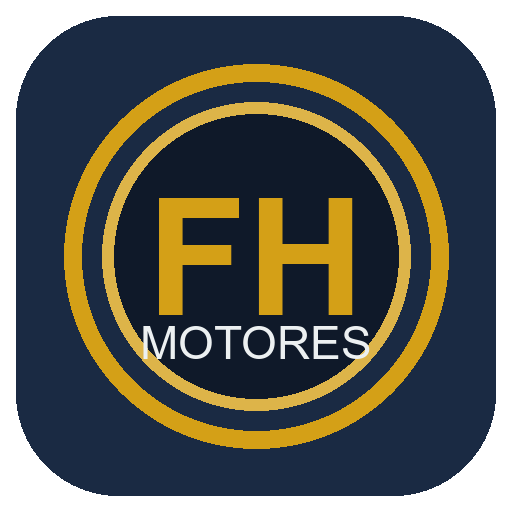
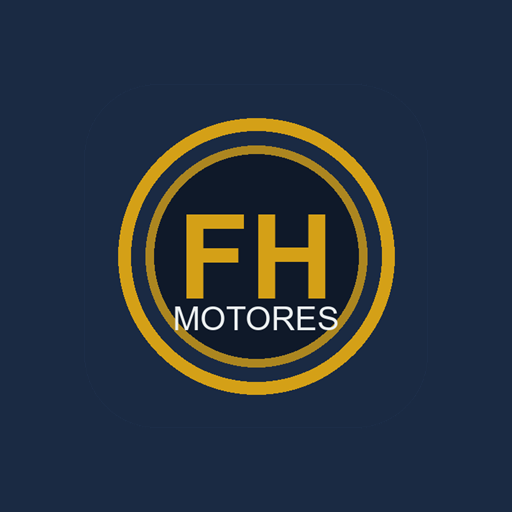
Instalar o app no Android e iPhone com o icone FH Motores na tela inicial.

diff --git a/index.html b/index.html
@@ -12,10 +12,13 @@
     <meta name="apple-mobile-web-app-title" content="FH Motores">
     <meta name="application-name" content="FH Motores">
     <meta name="format-detection" content="telephone=no">
+    <link rel="manifest" href="manifest.json">
     <link rel="manifest" href="manifest.webmanifest">
     <link rel="icon" type="image/png" sizes="32x32" href="icons/favicon-32.png">
     <link rel="icon" type="image/png" sizes="192x192" href="icons/icon-192.png">
-    <link rel="apple-touch-icon" href="icons/apple-touch-icon.png">
+    <link rel="apple-touch-icon" href="apple-touch-icon.png">
+    <link rel="apple-touch-icon" sizes="180x180" href="icons/apple-touch-icon.png">
+    <link rel="apple-touch-icon" sizes="192x192" href="icons/icon-192.png">
     <link href="https://fonts.googleapis.com/css2?family=Poppins:wght@400;600;700;800&display=swap" rel="stylesheet">
     <script src="https://cdn.jsdelivr.net/npm/sweetalert2@11"></script>
     <script src="https://cdn.jsdelivr.net/npm/jsbarcode@3.11.5/dist/JsBarcode.all.min.js"></script>
@@ -68,6 +71,38 @@
             text-transform: uppercase; white-space: nowrap; cursor: pointer;
         }
         .btn-instalar-app.show { display: inline-flex; align-items: center; gap: 4px; }
+        .banner-instalar {
+            display: none; position: fixed; left: 12px; right: 12px; bottom: calc(12px + env(safe-area-inset-bottom));
+            z-index: 150; background: #162233; border: 2px solid var(--gold); border-radius: 14px;
+            padding: 10px 12px; gap: 10px; align-items: center; box-shadow: 0 10px 28px rgba(0,0,0,.45);
+        }
+        .banner-instalar.show { display: flex; }
+        .banner-instalar img { width: 52px; height: 52px; border-radius: 12px; background: #1a2a43; flex-shrink: 0; }
+        .banner-instalar .txt { flex: 1; min-width: 0; }
+        .banner-instalar strong { display: block; color: var(--gold); font-size: 13px; }
+        .banner-instalar span { display: block; font-size: 11px; color: var(--muted); line-height: 1.3; }
+        .banner-instalar .btn-instalar-agora {
+            background: var(--gold); color: var(--dark-navy); border: none; border-radius: 8px;
+            padding: 10px 14px; font-weight: 800; font-size: 12px; text-transform: uppercase; cursor: pointer; flex-shrink: 0;
+        }
+        .overlay-instalar {
+            display: none; position: fixed; inset: 0; z-index: 200000; background: rgba(0,0,0,.78);
+            align-items: center; justify-content: center; padding: 16px;
+        }
+        .overlay-instalar.open { display: flex; }
+        .overlay-instalar .box {
+            width: 100%; max-width: 420px; background: #162233; border: 2px solid var(--gold);
+            border-radius: 16px; padding: 18px; color: #ecf0f1; text-align: center;
+        }
+        .overlay-instalar .ico-app { width: 96px; height: 96px; border-radius: 22px; margin: 0 auto 10px; background: #1a2a43; display: block; }
+        .overlay-instalar h3 { margin: 0 0 6px; color: var(--gold); }
+        .overlay-instalar p { font-size: 13px; color: #bdc3c7; margin: 0 0 14px; }
+        .overlay-instalar .par { display: flex; gap: 8px; flex-wrap: wrap; }
+        .overlay-instalar .par button { flex: 1; min-width: 140px; min-height: 48px; }
+        .passos-instalar { text-align: left; font-size: 13px; color: #ecf0f1; line-height: 1.55; margin: 0 0 12px; padding-left: 18px; }
+        @media (max-width: 900px) {
+            .banner-instalar.show { display: flex; }
+        }
         .filtro-mes {
             width: auto; flex: 0 0 auto; min-width: 180px; max-width: 240px; margin-bottom: 0;
             background: #1a252f; color: #ecf0f1; border: 1px solid var(--gold); font-weight: 700;
@@ -208,7 +243,7 @@
             .sidebar { width: 220px; min-width: 200px; }
         }
         @media (display-mode: standalone), (display-mode: fullscreen) {
-            .btn-instalar-app { display: none !important; }
+            .btn-instalar-app, .banner-instalar { display: none !important; }
         }
         button {
             padding: 9px 14px; border: none; border-radius: 6px; font-weight: 700;
@@ -313,6 +348,14 @@
     <div style="width:100%;max-width:400px;background:#162233;border:1px solid rgba(212,160,23,.35);border-radius:14px;padding:22px;color:#ecf0f1;font-family:Poppins,sans-serif">
         <h2 style="margin:0 0 6px;color:#d4a017;font-size:20px">FH MOTORES</h2>
         <p style="margin:0 0 16px;font-size:12px;color:#bdc3c7">Login seguro — só quem tem usuário no Firebase entra.</p>
+        <div style="display:flex;align-items:center;gap:10px;background:#1a252f;border:1px solid rgba(212,160,23,.35);border-radius:10px;padding:10px;margin-bottom:14px">
+            <img src="icons/icon-192.png" alt="FH Motores" width="48" height="48" style="border-radius:10px">
+            <div style="flex:1;min-width:0;text-align:left">
+                <strong style="display:block;color:#d4a017;font-size:12px">App na tela inicial</strong>
+                <span style="font-size:11px;color:#bdc3c7">Instala com este ícone no Android ou iPhone.</span>
+            </div>
+            <button type="button" class="btn-gold" style="padding:10px 12px;margin:0;white-space:nowrap" onclick="instalarAppFH()">INSTALAR</button>
+        </div>
         <label style="font-size:11px;color:#bdc3c7">E-mail</label>
         <input id="loginEmail" type="email" autocomplete="username" style="width:100%;margin:4px 0 10px;padding:10px;border-radius:8px;border:1px solid #7f8c8d;background:#1a252f;color:#fff">
         <label style="font-size:11px;color:#bdc3c7">Senha</label>
@@ -331,10 +374,33 @@
         <strong>FH MOTORES</strong>
         <span>— Gestão de Oficina</span>
     </div>
-    <button type="button" class="btn-instalar-app" id="btnInstalarApp" onclick="instalarAppFH()">⬇ Instalar App</button>
+    <button type="button" class="btn-instalar-app" id="btnInstalarApp" onclick="instalarAppFH()">⬇ INSTALAR</button>
     <span id="statusFirebase" class="status-online" style="margin-left:auto;">● Modo Local</span>
     <span id="userEmailTop" style="font-size:11px;color:#bdc3c7;margin-left:10px"></span>
     <button type="button" id="btnLogout" class="btn-sm btn-danger" style="display:none;margin-left:8px" onclick="sairFHMotores()">Sair</button>
+</div>
+
+<div id="bannerInstalarApp" class="banner-instalar" role="dialog" aria-label="Instalar aplicativo">
+    <img src="icons/icon-192.png" alt="Ícone FH Motores">
+    <div class="txt">
+        <strong>Instalar FH Motores</strong>
+        <span>Vai para a tela inicial do celular, com esta imagem.</span>
+    </div>
+    <button type="button" class="btn-instalar-agora" onclick="instalarAppFH()">INSTALAR</button>
+</div>
+
+<div id="overlayInstalarApp" class="overlay-instalar" onclick="if(event.target===this)fecharOverlayInstalar()">
+    <div class="box" role="dialog" aria-labelledby="tituloInstalarApp">
+        <img class="ico-app" src="icons/icon-512.png" alt="FH Motores">
+        <h3 id="tituloInstalarApp">Instalar FH Motores</h3>
+        <p id="textoInstalarApp">O app fica salvo na área do celular com este ícone.</p>
+        <div id="escolhaInstalarApp" class="par">
+            <button type="button" class="btn-success" onclick="instalarAppAndroid()">🤖 Android</button>
+            <button type="button" class="btn-info" onclick="instalarAppIphone()"> iPhone</button>
+        </div>
+        <div id="passosInstalarApp" style="display:none"></div>
+        <button type="button" class="btn-sm" style="margin-top:12px;background:#34495e;color:#fff" onclick="fecharOverlayInstalar()">Fechar</button>
+    </div>
 </div>
 
 <button type="button" class="sidebar-backdrop" id="sidebarBackdrop" onclick="fecharMenuMobile()" aria-label="Fechar menu"></button>
@@ -1147,18 +1213,28 @@
                 </form>
             </div>
             <div class="card">
-                <h2>📱 App no celular (Android / iPhone)</h2>
+                <h2>📱 Instalar o app no celular</h2>
                 <p style="font-size:12px;color:var(--muted);margin-top:0">
-                    Para usar fora da oficina (viagem, casa), abra no celular o site
-                    <b>https://netikis.github.io/FHMOTORES/</b>
-                    e toque em <b>⬇ Instalar App</b> no topo. O ícone FH Motores fica na tela inicial, como um aplicativo.
+                    Abra este sistema <b>no celular</b> (Chrome no Android ou Safari no iPhone) e toque em <b>INSTALAR</b>.
+                    O FH Motores vai para a tela inicial <b>com o ícone da oficina</b>.
                 </p>
+                <div style="display:flex;align-items:center;gap:12px;background:var(--panel-dark);border:1px solid rgba(212,160,23,.35);border-radius:12px;padding:12px;margin-bottom:12px">
+                    <img src="icons/icon-192.png" alt="Ícone do app" width="64" height="64" style="border-radius:14px">
+                    <div>
+                        <strong style="color:var(--gold)">FH Motores</strong>
+                        <div style="font-size:12px;color:var(--muted)">Este é o ícone que fica na área do celular.</div>
+                    </div>
+                </div>
+                <div class="toolbar" style="flex-wrap:wrap">
+                    <button type="button" class="btn-success" onclick="instalarAppAndroid()">🤖 INSTALAR no Android</button>
+                    <button type="button" class="btn-info" onclick="instalarAppIphone()"> INSTALAR no iPhone</button>
+                </div>
                 <ol style="font-size:12px;color:var(--muted);padding-left:18px;line-height:1.55">
-                    <li><b>Android (Chrome):</b> abra o link → toque em <b>Instalar App</b> (ou menu ⋮ → Instalar aplicativo / Adicionar à tela inicial).</li>
+                    <li><b>Android:</b> toque em INSTALAR — o Chrome pergunta e coloca o app na tela inicial.</li>
                     <li><b>iPhone:</b> abra no Safari → Compartilhar (□↑) → <b>Adicionar à Tela de Início</b>.</li>
-                    <li>Depois abra pelo ícone, não pelo navegador. Precisa de internet para sincronizar.</li>
+                    <li>Não instale pelo computador: o ícone só vai para o celular se o INSTALAR for tocado no próprio celular.</li>
                 </ol>
-                <button type="button" class="btn-gold" onclick="instalarAppFH()">⬇ Como instalar / Instalar App</button>
+                <p style="font-size:11px;color:var(--muted);margin:0">Link: <b>https://netikis.github.io/FHMOTORES/</b></p>
             </div>
             <div class="card">
                 <h2>☁ Sincronização + Segurança (Firebase)</h2>
@@ -6060,16 +6136,34 @@ window.fecharMenuMobile = function() {
 
 let _deferredInstallPrompt = null;
 const URL_APP_FH = 'https://netikis.github.io/FHMOTORES/';
-function appJaInstalado() {
-    return window.matchMedia('(display-mode: standalone)').matches ||
-        window.navigator.standalone === true;
+const ICON_APP_FH = 'icons/icon-192.png';
+
+function uaInstalar() {
+    const ua = navigator.userAgent || '';
+    const isIOS = /iPad|iPhone|iPod/.test(ua) || (navigator.platform === 'MacIntel' && navigator.maxTouchPoints > 1);
+    const isAndroid = /Android/i.test(ua);
+    const isMobile = isIOS || isAndroid || /Mobile/i.test(ua);
+    const isStandalone = window.matchMedia('(display-mode: standalone)').matches || window.navigator.standalone === true;
+    return { ua: ua, isIOS: isIOS, isAndroid: isAndroid, isMobile: isMobile, isStandalone: isStandalone };
 }
+function appJaInstalado() { return uaInstalar().isStandalone; }
+
 function atualizarBotaoInstalarApp() {
+    const info = uaInstalar();
     const btn = document.getElementById('btnInstalarApp');
-    if (!btn) return;
-    if (appJaInstalado()) btn.style.display = 'none';
-    else btn.style.display = '';
+    const banner = document.getElementById('bannerInstalarApp');
+    if (info.isStandalone) {
+        if (btn) btn.style.display = 'none';
+        if (banner) banner.classList.remove('show');
+        return;
+    }
+    if (btn) btn.style.display = '';
+    if (banner) {
+        if (info.isMobile) banner.classList.add('show');
+        else banner.classList.remove('show');
+    }
 }
+
 window.addEventListener('beforeinstallprompt', function(e) {
     e.preventDefault();
     _deferredInstallPrompt = e;
@@ -6078,46 +6172,120 @@ window.addEventListener('beforeinstallprompt', function(e) {
 window.addEventListener('appinstalled', function() {
     _deferredInstallPrompt = null;
     atualizarBotaoInstalarApp();
+    fecharOverlayInstalar();
+    if (window.Swal) {
+        Swal.fire({ icon: 'success', title: 'App na tela inicial', text: 'O ícone FH Motores foi salvo na área do celular.', timer: 2800, showConfirmButton: false });
+    }
 });
 
-window.instalarAppFH = async function() {
-    const isIOS = /iPad|iPhone|iPod/.test(navigator.userAgent) ||
-        (navigator.platform === 'MacIntel' && navigator.maxTouchPoints > 1);
+window.fecharOverlayInstalar = function() {
+    const ov = document.getElementById('overlayInstalarApp');
+    if (ov) ov.classList.remove('open');
+    const passos = document.getElementById('passosInstalarApp');
+    const escolha = document.getElementById('escolhaInstalarApp');
+    if (passos) { passos.style.display = 'none'; passos.innerHTML = ''; }
+    if (escolha) escolha.style.display = 'flex';
+    const t = document.getElementById('tituloInstalarApp');
+    const p = document.getElementById('textoInstalarApp');
+    if (t) t.textContent = 'Instalar FH Motores';
+    if (p) p.textContent = 'O app fica salvo na área do celular com este ícone.';
+};
 
+function abrirOverlayInstalar() {
+    const ov = document.getElementById('overlayInstalarApp');
+    if (ov) ov.classList.add('open');
+}
+
+async function dispararInstalacaoNativa() {
+    if (!_deferredInstallPrompt) return false;
+    _deferredInstallPrompt.prompt();
+    const choice = await _deferredInstallPrompt.userChoice;
+    _deferredInstallPrompt = null;
+    atualizarBotaoInstalarApp();
+    if (choice && choice.outcome === 'accepted') return true;
+    return 'dismissed';
+}
+
+window.instalarAppAndroid = async function() {
     if (appJaInstalado()) {
+        return Swal.fire({ icon: 'info', title: 'Já está instalado', text: 'Abra pelo ícone FH Motores na tela inicial.' });
+    }
+    const nativo = await dispararInstalacaoNativa();
+    if (nativo === true) return;
+    abrirOverlayInstalar();
+    const escolha = document.getElementById('escolhaInstalarApp');
+    const passos = document.getElementById('passosInstalarApp');
+    const t = document.getElementById('tituloInstalarApp');
+    const p = document.getElementById('textoInstalarApp');
+    if (t) t.textContent = 'Instalar no Android';
+    if (p) p.textContent = 'O ícone FH Motores vai para a tela inicial.';
+    if (escolha) escolha.style.display = 'none';
+    if (passos) {
+        passos.style.display = 'block';
+        passos.innerHTML = '<ol class="passos-instalar">' +
+            '<li>Abra este site no <b>Chrome</b> do celular (não no Instagram/WhatsApp).</li>' +
+            '<li>Toque em <b>INSTALAR</b> no topo — ou menu <b>⋮</b> → <b>Instalar aplicativo</b> / <b>Adicionar à tela inicial</b>.</li>' +
+            '<li>Confirme. O app fica na área do celular com a imagem FH Motores.</li>' +
+            '</ol>' +
+            (nativo === 'dismissed' ? '<p style="font-size:12px;color:#f1c40f">Você cancelou o aviso do Chrome. Use o menu ⋮ para instalar.</p>' : '') +
+            '<p style="font-size:11px;color:#95a5a6;word-break:break-all">' + URL_APP_FH + '</p>';
+    }
+};
+
+window.instalarAppIphone = function() {
+    if (appJaInstalado()) {
+        return Swal.fire({ icon: 'info', title: 'Já está instalado', text: 'Abra pelo ícone FH Motores na tela inicial.' });
+    }
+    abrirOverlayInstalar();
+    const escolha = document.getElementById('escolhaInstalarApp');
+    const passos = document.getElementById('passosInstalarApp');
+    const t = document.getElementById('tituloInstalarApp');
+    const p = document.getElementById('textoInstalarApp');
+    if (t) t.textContent = 'Instalar no iPhone';
+    if (p) p.textContent = 'No iPhone o Safari coloca o ícone na tela inicial.';
+    if (escolha) escolha.style.display = 'none';
+    if (passos) {
+        passos.style.display = 'block';
+        passos.innerHTML = '<ol class="passos-instalar">' +
+            '<li>Abra no <b>Safari</b> (não no Chrome):<br><b>' + URL_APP_FH + '</b></li>' +
+            '<li>Toque em <b>Compartilhar</b> (quadrado com a seta para cima).</li>' +
+            '<li>Role e toque em <b>Adicionar à Tela de Início</b>.</li>' +
+            '<li>Confirme. O ícone FH Motores aparece na área do iPhone.</li>' +
+            '</ol>';
+    }
+};
+
+window.instalarAppFH = async function() {
+    const info = uaInstalar();
+    if (info.isStandalone) {
         return Swal.fire({ icon: 'info', title: 'Já está instalado', text: 'O FH Motores já está rodando como aplicativo.' });
     }
-    if (_deferredInstallPrompt) {
-        _deferredInstallPrompt.prompt();
-        const choice = await _deferredInstallPrompt.userChoice;
-        _deferredInstallPrompt = null;
-        atualizarBotaoInstalarApp();
-        if (choice && choice.outcome === 'accepted') {
-            Swal.fire({ icon: 'success', title: 'App instalado!', text: 'Abra pelo ícone FH Motores na tela inicial.', timer: 2500, showConfirmButton: false });
-        }
-        return;
+    if (info.isAndroid || (!info.isIOS && _deferredInstallPrompt)) {
+        const nativo = await dispararInstalacaoNativa();
+        if (nativo === true) return;
+        if (info.isAndroid) return window.instalarAppAndroid();
     }
-    if (isIOS) {
-        return Swal.fire({
-            icon: 'info',
-            title: 'Instalar no iPhone / iPad',
-            html: '1) Abra no <b>Safari</b>: <a href="' + URL_APP_FH + '" target="_blank">' + URL_APP_FH + '</a><br>2) Toque em <b>Compartilhar</b> (□↑)<br>3) Role e toque em <b>Adicionar à Tela de Início</b><br>4) Confirme — o ícone FH Motores aparece como app'
-        });
+    if (info.isIOS) return window.instalarAppIphone();
+    abrirOverlayInstalar();
+    const escolha = document.getElementById('escolhaInstalarApp');
+    const passos = document.getElementById('passosInstalarApp');
+    if (escolha) escolha.style.display = 'flex';
+    if (passos) {
+        passos.style.display = 'block';
+        passos.innerHTML = '<p style="font-size:12px;color:#bdc3c7;margin:12px 0 8px">No computador o app não vai para o celular. Abra o link no telefone e toque em INSTALAR, ou escolha Android / iPhone:</p>' +
+            '<img alt="QR Code" width="160" height="160" style="background:#fff;border-radius:8px;padding:6px" src="https://api.qrserver.com/v1/create-qr-code/?size=160x160&data=' + encodeURIComponent(URL_APP_FH) + '" onerror="this.style.display=\'none\'">' +
+            '<p style="font-size:13px;color:#d4a017;word-break:break-all;margin-top:8px"><b>' + URL_APP_FH + '</b></p>' +
+            '<button type="button" class="btn-gold btn-sm" onclick="navigator.clipboard.writeText(\'' + URL_APP_FH + '\').then(function(){ if(window.Swal) Swal.fire({toast:true,position:\'top\',icon:\'success\',title:\'Link copiado\',timer:1400,showConfirmButton:false}); })">Copiar link</button>';
     }
-    return Swal.fire({
-        icon: 'info',
-        title: 'Como instalar no celular',
-        html: '1) No celular, abra o Chrome em:<br><a href="' + URL_APP_FH + '" target="_blank"><b>' + URL_APP_FH + '</b></a><br><br>2) Toque em <b>Instalar App</b> no topo, ou menu <b>⋮</b> → <b>Instalar aplicativo</b> / <b>Adicionar à tela inicial</b>.<br><br>3) Depois use o ícone FH Motores para abrir de qualquer lugar (precisa de internet).'
-    });
 };
 
 atualizarBotaoInstalarApp();
 
 if ('serviceWorker' in navigator) {
     window.addEventListener('load', function() {
-        const swUrl = 'sw.js';
-        navigator.serviceWorker.register(swUrl).then(function(reg) {
+        navigator.serviceWorker.register('./sw.js', { scope: './', updateViaCache: 'none' }).then(function(reg) {
             console.log('PWA service worker ok', reg.scope);
+            if (reg.update) reg.update();
         }).catch(function(err) {
             console.warn('Service worker não registrado (normal em file://)', err);
         });

diff --git a/sw.js b/sw.js
@@ -1,19 +1,24 @@
 /* FH MOTORES — Service Worker (PWA) */
-const CACHE = 'fhmotores-v3';
+const CACHE = 'fhmotores-v4';
 const ASSETS = [
   './',
   './index.html',
   './manifest.webmanifest',
+  './manifest.json',
+  './apple-touch-icon.png',
   './icons/icon-192.png',
   './icons/icon-512.png',
+  './icons/maskable-512.png',
   './icons/apple-touch-icon.png',
   './icons/favicon-32.png'
 ];
 
 self.addEventListener('install', (event) => {
-  event.waitUntil(
-    caches.open(CACHE).then((cache) => cache.addAll(ASSETS)).then(() => self.skipWaiting())
-  );
+  event.waitUntil((async () => {
+    const cache = await caches.open(CACHE);
+    await Promise.all(ASSETS.map((url) => cache.add(url).catch(() => null)));
+    await self.skipWaiting();
+  })());
 });
 
 self.addEventListener('activate', (event) => {
@@ -28,7 +33,6 @@ self.addEventListener('fetch', (event) => {
   const req = event.request;
   if (req.method !== 'GET') return;
   const url = new URL(req.url);
-  // Não cachear Firebase / APIs externas
   if (url.hostname.includes('firebase') || url.hostname.includes('googleapis') ||
       url.hostname.includes('gstatic') || url.hostname.includes('jsdelivr') ||
       url.hostname.includes('google')) {
